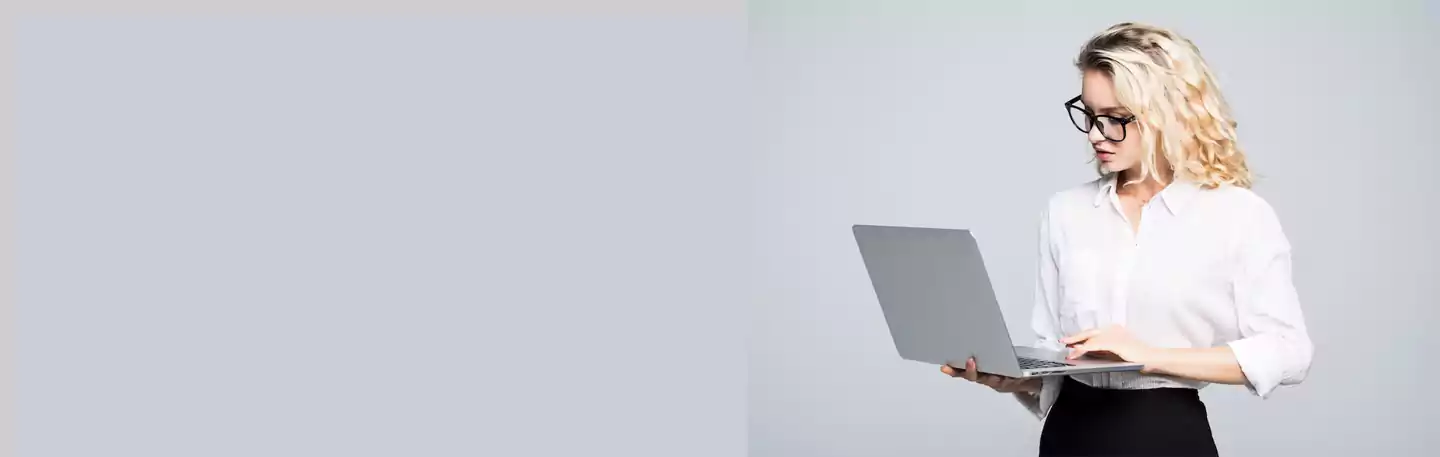
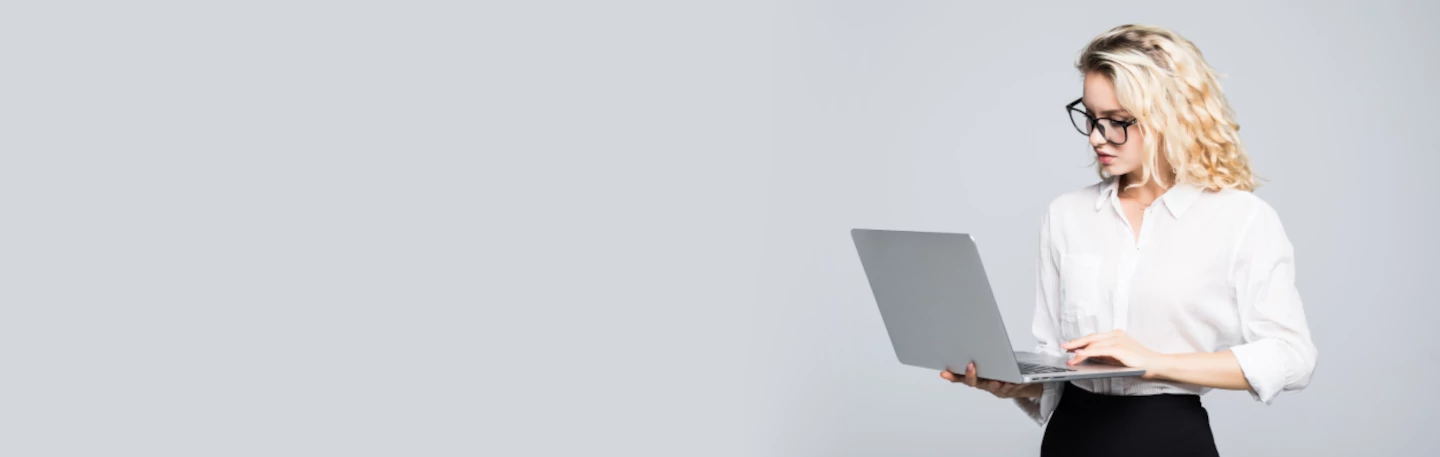
++

diff --git a/public/css/style.min.css b/public/css/style.min.css
@@ -6533,10 +6533,11 @@ body:not(.lg-from-hash) .lg-outer.lg-start-zoom .lg-item.lg-complete .lg-object 
 /* Страница оптовым покупателям  */
 
 .designer_slide.opt {
-    background-color: #cbced5;
+    background-color: #d5d8dd;
     color:black;
     background-image: url(../img/opt/opt_slide.webp );
     margin-bottom: 40px;
+    background-position: right bottom;
 }
 
 .col_2_blk {
@@ -6591,6 +6592,12 @@ body:not(.lg-from-hash) .lg-outer.lg-start-zoom .lg-item.lg-complete .lg-object 
     background-image: url(../img/icons/opt/kot_pos.svg);
 }
 
+@media (max-width: 1280px) {
+    .designer_slide.opt {
+        background-size: cover;
+    }
+}
+
 @media (max-width: 812px) {
     .col_2_blk {
         flex-direction: column;
@@ -6605,6 +6612,12 @@ body:not(.lg-from-hash) .lg-outer.lg-start-zoom .lg-item.lg-complete .lg-object 
         margin-right: 20px;
         margin-bottom: 0;
      }
+}
+
+@media (max-width: 480px) {
+    .designer_slide.opt{
+        background-position: 71% center;
+    }
 }
 
 
